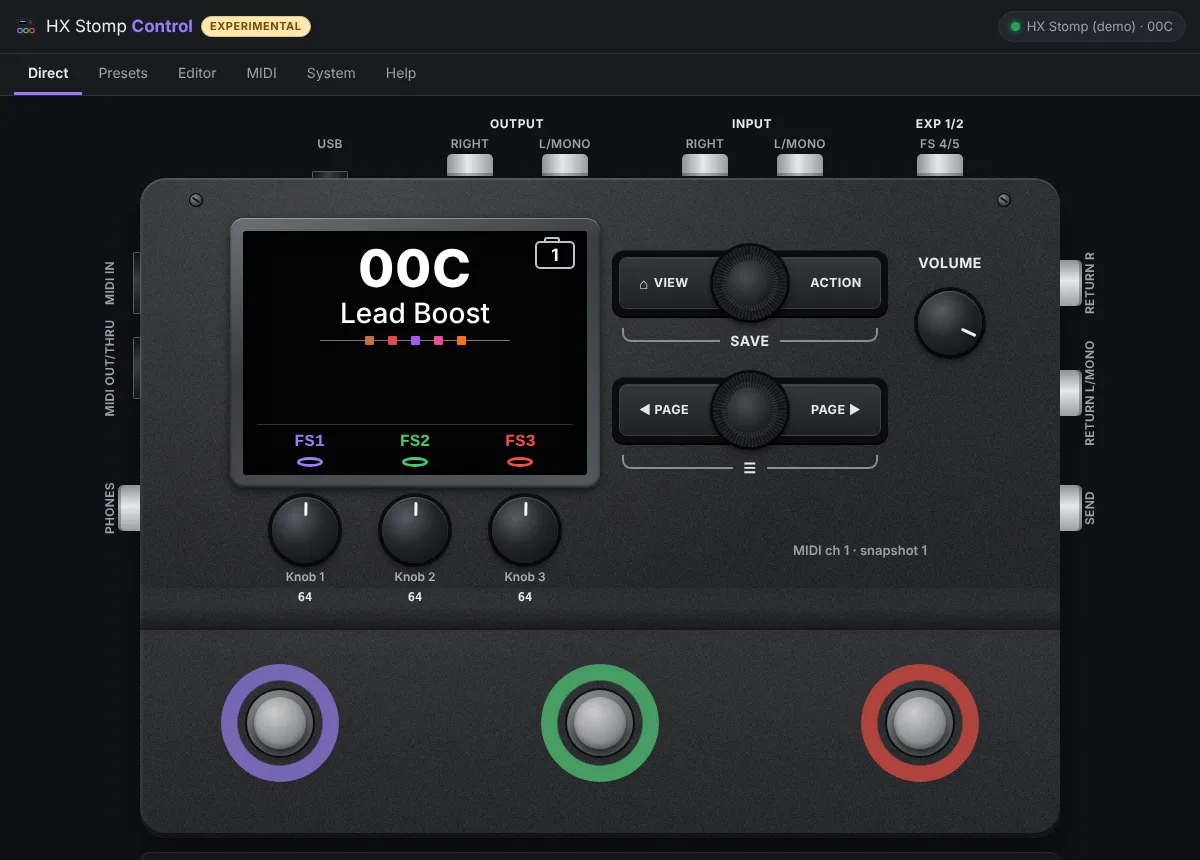
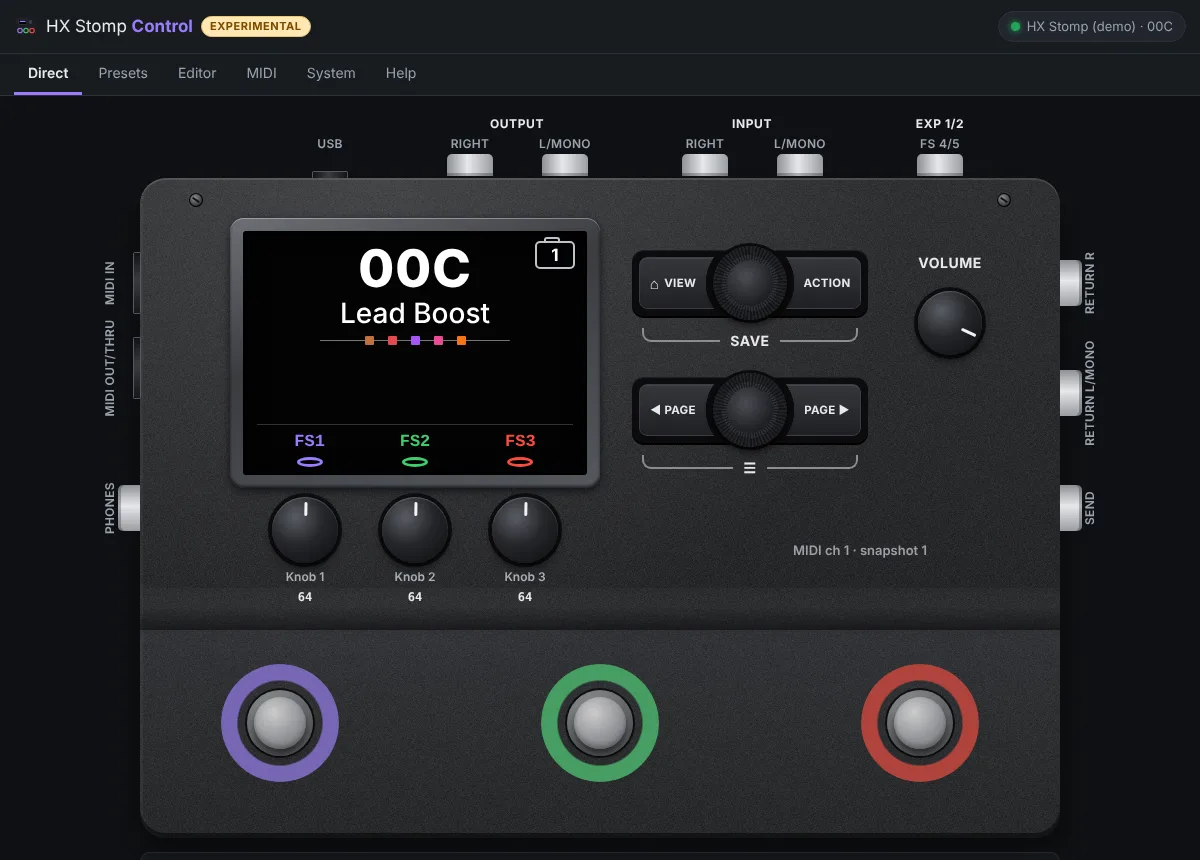
Direct mode: narrower VIEW/ACTION and PAGE buttons that curve around the knobs with a small gap

diff --git a/web/css/style.css b/web/css/style.css
@@ -224,14 +224,17 @@ table.grid th { font-size: 12px; color: var(--muted); font-weight: 600; }
 .bezel .lcd .fsl b { width: 26px; height: 10px; border: 3px solid; border-radius: 50%; }
 .bezel .lcd.tuner .pn::after { content: ''; }
 .bezel .lcd .tunebar { margin: 18px auto 0; width: 80%; height: 8px; border-radius: 4px; background: linear-gradient(90deg, #e5484d, #f5a524 35%, #3ccf6b 50%, #f5a524 65%, #e5484d); }
-.hxpanel .pill { width: 276px; height: 66px; border-radius: 12px; display: flex; justify-content: space-between; padding: 7px;
+.hxpanel .pill { width: 236px; height: 66px; border-radius: 12px; display: flex; justify-content: space-between; padding: 7px;
   background: #0b0c0d; box-shadow: inset 0 1px 0 rgba(255,255,255,.08), 0 2px 0 #000; }
-.hwkey { width: 106px; height: 52px; border-radius: 8px; padding: 0; border: 1px solid #3c3e43; color: #e8e8ea;
-  background: linear-gradient(#34363b, #1f2024); box-shadow: inset 0 1px 0 rgba(255,255,255,.08); font: 700 12.5px/1 "Helvetica Neue", Arial, sans-serif; letter-spacing: .4px; }
+.hwkey { width: 86px; height: 52px; border-radius: 8px; padding: 0; border: 1px solid #3c3e43; color: #e8e8ea;
+  background: linear-gradient(#34363b, #1f2024); box-shadow: inset 0 1px 0 rgba(255,255,255,.08); font: 700 11.5px/1 "Helvetica Neue", Arial, sans-serif; letter-spacing: .3px; }
 .hwkey:active:not(:disabled) { transform: translateY(1px); background: linear-gradient(#2a2c30, #18191c); }
 .hwkey:disabled { opacity: .55; }
 .hwkey.action:disabled { opacity: 1; cursor: default; }  /* ACTION has no MIDI, but looks like the real button */
-.hwkey.view, .hwkey.pl { padding-right: 16px; } .hwkey.action, .hwkey.pr { padding-left: 16px; }  /* centred in the part the knob doesn't cover */
+.hwkey.view, .hwkey.pl { padding-right: 18px; } .hwkey.action, .hwkey.pr { padding-left: 18px; }
+/* The inner ends of the buttons curve around the knob with a small gap (pill 236 wide, buttons 86, knob 74 + ring). */
+.hwkey.view, .hwkey.pl { -webkit-mask: radial-gradient(circle at 111px 26px, transparent 44px, #000 44.5px); mask: radial-gradient(circle at 111px 26px, transparent 44px, #000 44.5px); }
+.hwkey.action, .hwkey.pr { -webkit-mask: radial-gradient(circle at -25px 26px, transparent 44px, #000 44.5px); mask: radial-gradient(circle at -25px 26px, transparent 44px, #000 44.5px); }  /* centred in the part the knob doesn't cover */
 .hxpanel.off .hwkey:disabled { opacity: .55; }
 .hwkey { display: inline-flex; align-items: center; justify-content: center; gap: 5px; }
 .hwkey.view::before { content: '⌂'; font-size: 15px; line-height: 1; }
@@ -251,7 +254,7 @@ table.grid th { font-size: 12px; color: var(--muted); font-weight: 600; }
 .hxpanel .knobwrap .kl { font: 600 12px/1 system-ui; color: #aab0b8; }
 .hxpanel .knobwrap .v { font: 600 12px/1 ui-monospace, monospace; color: #e9e9ea; }
 .hxpanel .plabel { font: 700 14px/1 "Helvetica Neue", Arial, sans-serif; letter-spacing: .5px; color: #e8e8ea; white-space: nowrap; }
-.hxpanel .bracket { display: flex; align-items: flex-end; gap: 10px; width: 256px; justify-content: center; }
+.hxpanel .bracket { display: flex; align-items: flex-end; gap: 10px; width: 216px; justify-content: center; }
 .hxpanel .bracket::before, .hxpanel .bracket::after { content: ''; flex: 1; height: 12px; margin-bottom: 6px; border-bottom: 2px solid #8a8d92; }
 .hxpanel .bracket::before { border-left: 2px solid #8a8d92; border-bottom-left-radius: 9px; }
 .hxpanel .bracket::after { border-right: 2px solid #8a8d92; border-bottom-right-radius: 9px; }
